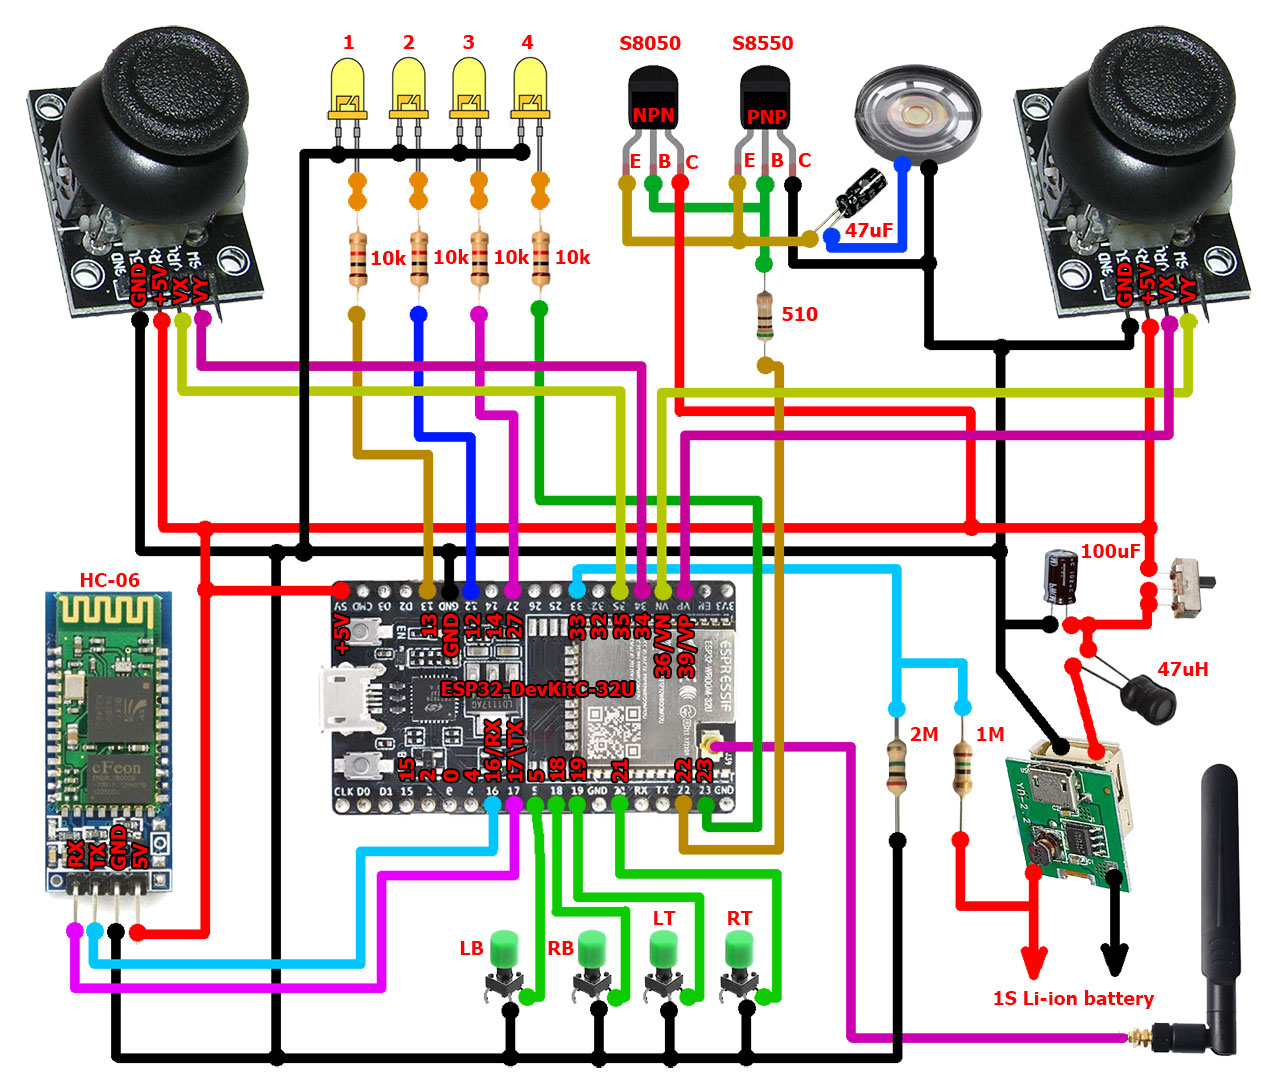
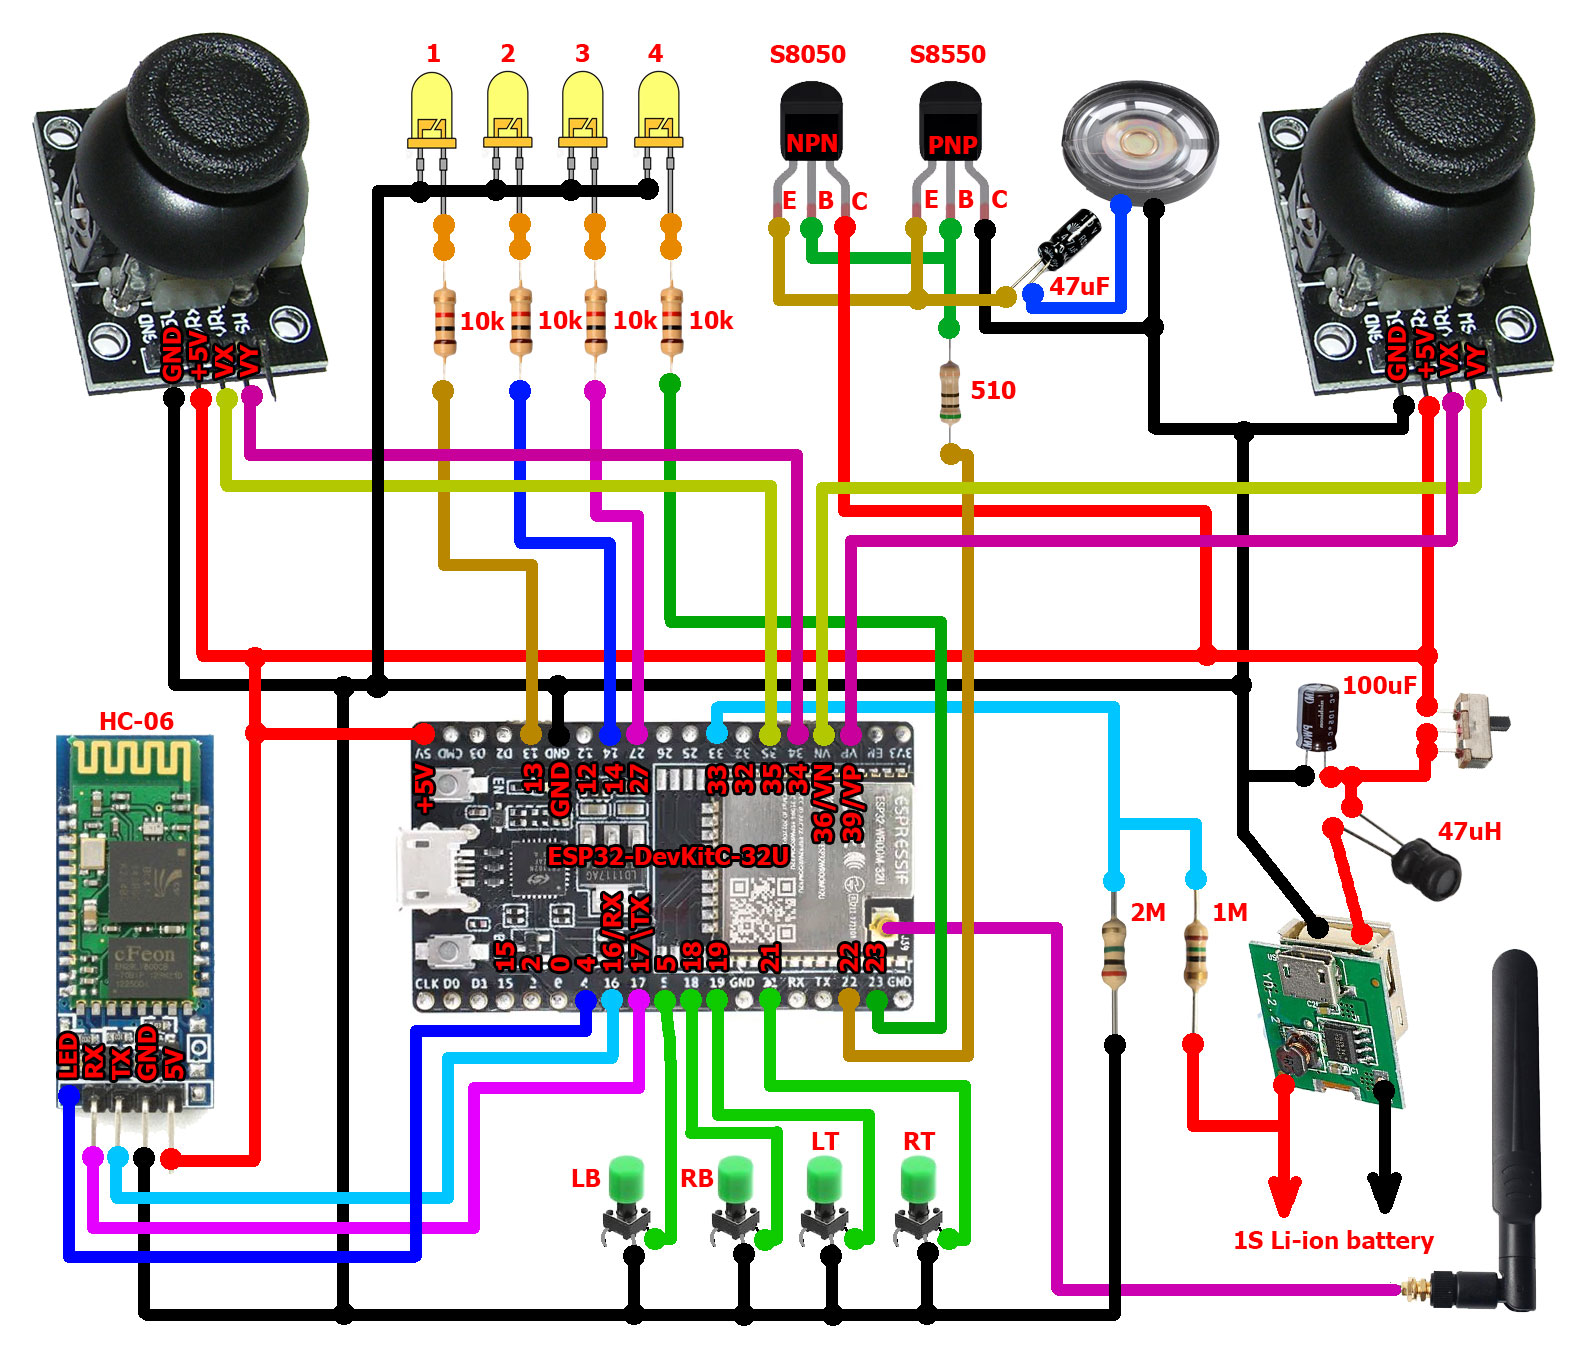
changed LED pin added LED_PIN_INVERSE added bluetooth status checking

diff --git a/examples/tx_diy_controller/src/TXMain.cpp b/examples/tx_diy_controller/src/TXMain.cpp
@@ -3,6 +3,8 @@
 #include "StateInit.h"
 #include "AudioManager.h"
 
+#define BLUETOOTH_CHECK_PERIOD_MS 3000
+
 uint8_t currentProfileIndex;
 HC06Interface externalBTSerial;
 
@@ -31,22 +33,43 @@ void TXMain::initLEDS4Pins()
   pinMode(LED2_PIN, OUTPUT);
   pinMode(LED3_PIN, OUTPUT);
   pinMode(LED4_PIN, OUTPUT);
+#ifdef LED_INVERT  
+  digitalWrite(LED1_PIN, HIGH);
+  digitalWrite(LED2_PIN, HIGH);
+  digitalWrite(LED3_PIN, HIGH);
+  digitalWrite(LED4_PIN, HIGH);
+#endif
 }
 
 //=====================================================================
 //=====================================================================
 void TXMain::setLEDS4(uint8_t v)
 {
+ #ifdef LED_INVERT
+  digitalWrite(LED1_PIN, (v & 8)>0? LOW:HIGH );
+  digitalWrite(LED2_PIN, (v & 4)>0? LOW:HIGH );
+  digitalWrite(LED3_PIN, (v & 2)>0? LOW:HIGH );
+  digitalWrite(LED4_PIN, (v & 1)>0? LOW:HIGH );
+ #else
   digitalWrite(LED1_PIN, (v & 8)>0? HIGH:LOW );
   digitalWrite(LED2_PIN, (v & 4)>0? HIGH:LOW );
   digitalWrite(LED3_PIN, (v & 2)>0? HIGH:LOW );
   digitalWrite(LED4_PIN, (v & 1)>0? HIGH:LOW );
+#endif  
 }
 
 //=====================================================================
 //=====================================================================
 void TXMain::setup()
 {
+  this->initLedPin();
+  this->setLed(true);
+
+  this->initLEDS4Pins();
+  this->setLEDS4(0);
+
+  pinMode(HC06_LED_PIN, INPUT);
+
   esp_task_wdt_init(WDT_TIMEOUT_SECONDS, true); //enable panic so ESP32 restarts
   esp_task_wdt_add(NULL); //add current thread to WDT watch
 
@@ -55,12 +78,6 @@ void TXMain::setup()
   externalBTSerial.init(&Serial2, HC06_INTERFACE_RX_PIN, HC06_INTERFACE_TX_PIN);
 
   HXRCLOG.println("Start");
-
-  this->initLedPin();
-  this->setLed(true);
-
-  this->initLEDS4Pins();
-  this->setLEDS4(0);
 
   digitalWrite(SPEAKER_PIN, LOW);
   pinMode(SPEAKER_PIN,OUTPUT);  //speaker pin
@@ -85,6 +102,9 @@ void TXMain::setup()
   AudioManager::instance.init();
 
   StateBase::Goto(&StateInit::instance);
+
+  this->bluetoothCheckTime = millis() + 5000;
+  this->lastBluetoothState = false;
 }
 
 //=====================================================================
@@ -129,6 +149,23 @@ void TXMain::saveLastProfile()
   configFile.close();
 }
 
+//=====================================================================
+//=====================================================================
+void TXMain::checkBluetoothState(uint32_t t)
+{
+  if ( t > (this->bluetoothCheckTime + BLUETOOTH_CHECK_PERIOD_MS ))
+  {
+    this->bluetoothCheckTime = t;
+    bool b = digitalRead(HC06_LED_PIN) == HIGH;
+    if ( this->lastBluetoothState != b )
+    {
+      this->lastBluetoothState = b;
+      AudioManager::instance.play( b ? "/bt_connected.mp3" : "/bt_disconnected.mp3", AUDIO_GROUP_NONE );
+    }
+  }
+
+  //Serial.println( digitalRead(HC06_LED_PIN) == HIGH ? "H" : "L");
+}
 
 //=====================================================================
 //=====================================================================
@@ -142,6 +179,8 @@ void TXMain::loop()
   StateBase::currentState->onRun(t);
 
   AudioManager::instance.loop(t);
+
+  this->checkBluetoothState(t);
 
   //digitalWrite(25, (t % 10) > 5 ? LOW : HIGH);
 }

diff --git a/examples/tx_diy_controller/include/tx_config.h b/examples/tx_diy_controller/include/tx_config.h
@@ -5,12 +5,17 @@
 #define HC06_INTERFACE_RX_PIN  16  //SERIAL2 RX
 #define HC06_INTERFACE_TX_PIN  17  //SERIAL2 TX
 
+//uncomment if LEDS are inverted (connected to +3.3V)
+#define LED_INVERT
+
 #define LED1_PIN 13
-#define LED2_PIN 12
+#define LED2_PIN 14
 #define LED3_PIN 27
 #define LED4_PIN 23
 
 #define SPEAKER_PIN 22  
+
+#define HC06_LED_PIN 4
 
 //--------------------------------------------
 #define AXIS_COUNT 4
@@ -52,8 +57,8 @@
 #define RIGHT_TRIGGER_PIN   21
 //#define BUTTON4_PIN         14  // pulled up
 //#define BUTTON5_PIN         15  
-//Free: 4 (generic) 
 //Free: 0 (pulled up)
+//Free: 12 (boot fails if pooled high)
 
 #define BUTTON_PINS_LIST { LEFT_BUMPER_PIN, RIGHT_BUMPER_PIN, LEFT_TRIGGER_PIN, RIGHT_TRIGGER_PIN/*, BUTTON4_PIN, BUTTON5_PIN*/};
 

diff --git a/examples/tx_diy_controller/include/TXMain.h b/examples/tx_diy_controller/include/TXMain.h
@@ -32,8 +32,13 @@ class TXMain
 {
 private:
 
+    uint32_t bluetoothCheckTime;
+    bool lastBluetoothState;
+
     void initLedPin();
     void initLEDS4Pins();
+
+    void checkBluetoothState(uint32_t t);
 
 public:
     static TXMain instance;

diff --git a/examples/tx_diy_controller/include/AudioManager.h b/examples/tx_diy_controller/include/AudioManager.h
@@ -18,7 +18,7 @@
 
 #define AUDIO_GROUP_NONE        0      
 #define AUDIO_GROUP_PROFILE     1
-#define AUDIO_GROUP_SOUND       2
+#define AUDIO_GROUP_BLUETOOTH   2
 
 /*
 Sounds
